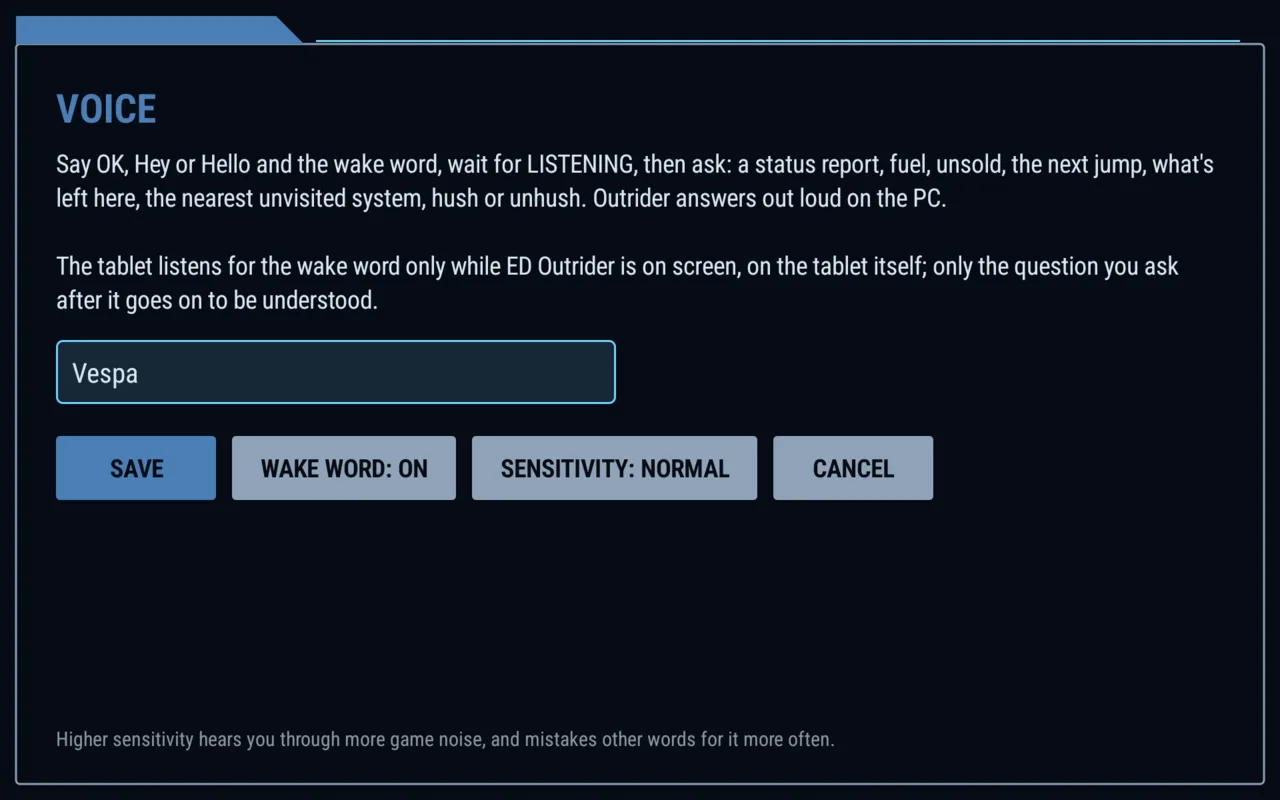
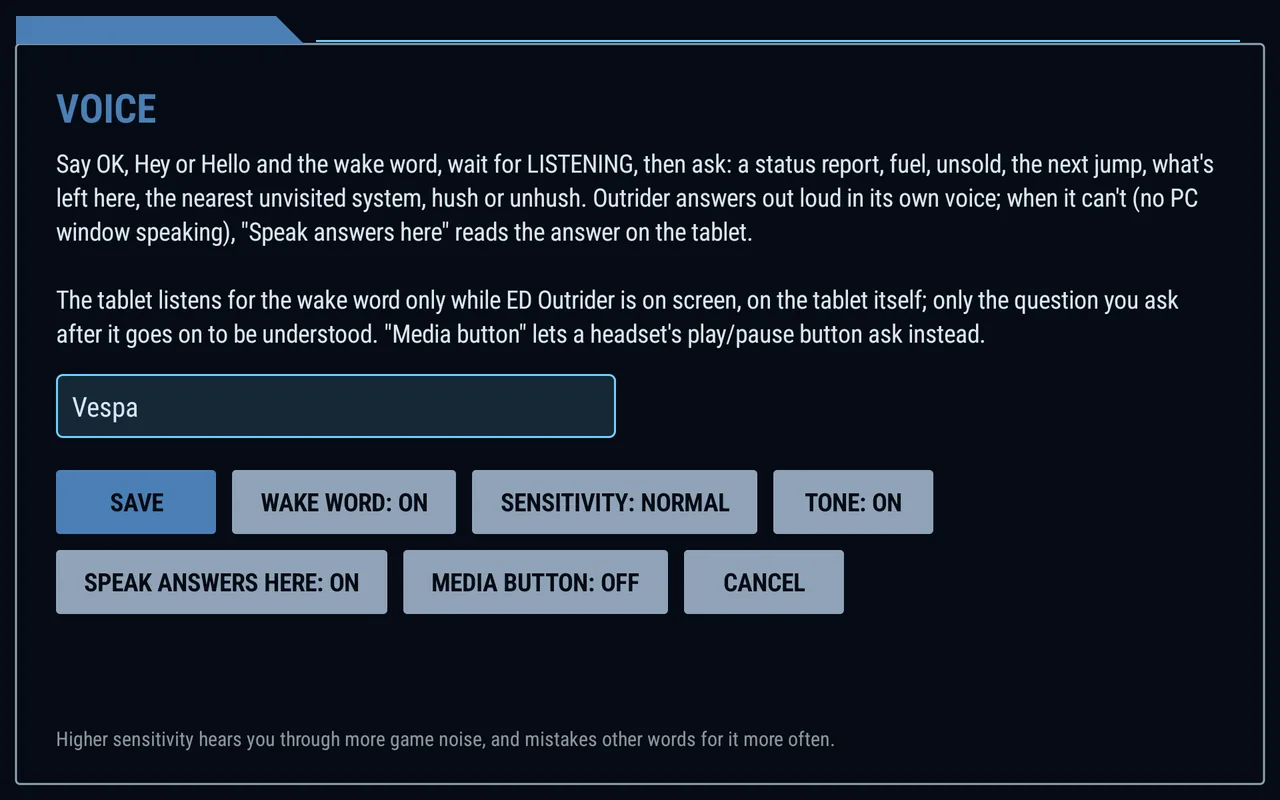
Review fixes, batch 6: docs and comments
From the 2026-10-04 review (F50, and the docs for batches 0-5):
- The manifest's microphone comment says what really happens: asked for when
  the page first shows, read continuously for the wake word while the app is
  on screen, nothing recorded or sent; the MainActivity voice section and the
  bridge's listen() comment no longer say "tap-to-ask"
- README: the tone, speaking answers on the tablet, the media button and the
  blocked-microphone path in Voice; Privacy covers the microphone, tablet
  text-to-speech, the media button, Android 8-9 storage, and requests to
  anywhere else being blocked; the fake Outrider's new flags; the contract's
  "spoken": false; a new Voice screenshot
- CLAUDE.md: Flow.kt, FlowRow.kt, per-Outrider cookies and themes, the build
  (dist, unsigned check, lint baseline, model manifest), the tests and the
  fake's flags, lint and the selftest as required checks, and what bit during
  the fixes (per-host cookies, Chromium's IPv6 and URL forms, fixed-length
  streaming, stroked drawables, run-as pipes)

Changed region(s): [[0.0312, 0.2812, 0.9375, 0.7812], [0.6562, 0.2188, 0.9375, 0.2812]]

diff --git a/app/src/main/java/io/github/weslocke/outrider/MainActivity.kt b/app/src/main/java/io/github/weslocke/outrider/MainActivity.kt
@@ -870,7 +870,7 @@ class MainActivity : ComponentActivity() {
 
     private fun toast(text: String) = Toast.makeText(this, text, Toast.LENGTH_LONG).show()
 
-    // ---- tap-to-ask --------------------------------------------------------------------------------------------
+    // ---- voice: the microphone, the wake word, Ask, answers -------------------------------------------------
 
     private fun micGranted() =
         ContextCompat.checkSelfPermission(this, Manifest.permission.RECORD_AUDIO) == PackageManager.PERMISSION_GRANTED

diff --git a/app/src/main/java/io/github/weslocke/outrider/Bridge.kt b/app/src/main/java/io/github/weslocke/outrider/Bridge.kt
@@ -37,7 +37,7 @@ object Bridge {
         data class Haptic(val ms: Int) : Message()
         object SignInRequired : Message()
         data class SetTheme(val name: String) : Message()
-        /** Tap-to-ask: listen for one spoken question and send it to /api/ask. */
+        /** The page's Ask button: listen for one spoken question and send it to /api/ask. */
         object Listen : Message()
     }
 

diff --git a/README.md b/README.md
@@ -42,7 +42,7 @@ the tablet sleeps, and listens for your voice.
 |---|---|
 | 🖥 **Cockpit display** | Outrider's tablet layout full screen, landscape, screen kept on: Now, Nearby, Here, Samples, Bookmarks, Search, Map, Highway, History, Log, Materials and My firsts. |
 | 🕹 **Ship controls** | A column of game buttons (landing gear, cargo scoop, lights, silent running, ...) that press your own key bindings in the game, lit from the game's own status. Changes with the vehicle: ship, SRV, fighter, on foot. *(Needs Outrider on the gaming PC, on Linux; an Outrider in server mode shows no game buttons.)* |
-| 🎙 **"Hey Vespa"** | Say *"Hey / OK / Hello Vespa"*, then ask: *status report*, *fuel*, *unsold*, *next jump*, *what's left here*, *nearest unvisited*, *hush*. Outrider answers out loud in its own voice. The wake word is yours to change. |
+| 🎙 **"Hey Vespa"** | Say *"Hey / OK / Hello Vespa"*, then ask: *status report*, *fuel*, *unsold*, *next jump*, *what's left here*, *nearest unvisited*, *hush*. Outrider answers out loud in its own voice (or the tablet reads it, when Outrider can't). The wake word is yours to change. |
 | 🎨 **Themes** | LCARS, Elite (cockpit HUD), Babylon 5 (Earthforce and Narn), Star Wars (Sith and Alliance) and a modern Dark mode, picked in the page's settings; the app's own screens follow. |
 | 🔒 **Signs in once** | When Outrider asks devices on the network for a password, the app signs in and stays signed in until it changes. |
 | 🔁 **Reconnects** | Says plainly when Outrider can't be reached, and picks up again by itself when it's back. |
@@ -97,33 +97,48 @@ isn't answering); each keeps its own sign-in. A long press on one forgets it.
 
 ## Voice
 
-Say **"Hey Vespa"**, **"OK Vespa"** or **"Hello Vespa"**, wait for **LISTENING**, then ask your question. Outrider
-answers out loud in its own voice, and the answer shows on the tablet too. A small **◉ VESPA** in the
+Say **"Hey Vespa"**, **"OK Vespa"** or **"Hello Vespa"**, wait for the soft tone and **LISTENING**, then ask your
+question. Outrider answers out loud in its own voice, and the answer shows on the tablet too; when Outrider can't speak
+(its voice is off, or it runs on a server), the tablet reads the answer out instead. A small **◉ VESPA** in the
 bottom-left corner shows that the tablet is listening for the wake word. You can also tap **Ask** (in the page's
 footer or the Back menu) instead of saying it.
 
 In **Back → Voice**:
 
 <p align="center">
-  <img src="docs/images/app-voice.webp" alt="The app's Voice settings: the wake word, on or off, its sensitivity" width="600">
+  <img src="docs/images/app-voice.webp" alt="The app's Voice settings: the wake word, on or off, its sensitivity, the tone, speaking answers on the tablet, the media button" width="600">
 </p>
 
 - **the wake word**: any word in plain letters, *Vespa* by default (the prefixes OK, Okay, Hey and Hello stay);
 - **on or off**;
-- **sensitivity**: *High* hears you through more game noise, and mistakes similar words for it more often.
+- **sensitivity**: *High* hears you through more game noise, and mistakes similar words for it more often;
+- **tone**: the soft two-note tone when it starts listening (on);
+- **speak answers here**: read answers on the tablet when Outrider didn't speak them (on);
+- **media button**: a headset's play/pause button asks, like the Ask button (off).
+
+If Android has stopped asking for the microphone (it was refused), the screen says so and **Open Android settings**
+takes you to the app's permissions.
 
 The wake word is spotted on the tablet by a small open model ([sherpa-onnx](https://github.com/k2-fsa/sherpa-onnx)),
 so with loud game audio it can miss: raise the sensitivity, or tap Ask.
 
 ## Privacy and security
 
-- The app talks **only to the Outrider address you give it**, over plain HTTP on your own network, and loads nothing else
-  (other links open in the browser).
-- The **wake word** is listened for on the tablet itself, only while the app is on screen. No audio is kept or sent
-  for it.
+- The app talks **only to the Outrider address you give it**, over plain HTTP on your own network, and loads nothing
+  else: requests the page makes anywhere else (images, scripts, fonts) are blocked, and other links open in the
+  browser.
+- The **microphone** is asked for when the page first shows, since the wake word is on by default. While the wake
+  word is on and the app is on screen, the microphone is listened to continuously, on the tablet itself, for the
+  wake word only. No audio is kept or sent for it.
 - After the wake word (or Ask), **your question** goes through Android's speech recognizer: on the tablet when Android
   has an offline speech pack for your language, otherwise through the recognizer's own online service (Google's, on
   most tablets). The text then goes to Outrider like any other request.
+- Answers read out **on the tablet** use Android's text-to-speech engine, which works on the tablet with the engine's
+  installed voices.
+- The **media button** option (off by default) lets a headset's play/pause button start a question while the app is
+  on screen; the app doesn't take the button over otherwise.
+- On Android 8 and 9, the **storage** permission is asked for on the first export, to save to Downloads; refused,
+  exports go to the app's own folder.
 - Outrider's **password** stops accidents (another device on the network pressing game keys), not a determined
   attacker on your network: it crosses the network unencrypted. The app keeps the session token Outrider gives it,
   never the password.
@@ -183,6 +198,10 @@ python3 tools/fake_outrider.py                  # port 8026, password "test"
 python3 tools/fake_outrider.py --password ""    # no password
 python3 tools/fake_outrider.py --api 2          # Outrider newer than the app: "update the app"
 python3 tools/fake_outrider.py --old            # no /api/version: "update Outrider"
+python3 tools/fake_outrider.py --server-mode    # Outrider on a server: no game buttons
+python3 tools/fake_outrider.py --unspoken       # answers Outrider couldn't speak: the tablet reads them
+python3 tools/fake_outrider.py --slow 5         # a slow /api/ask (also --ask-429, --redirect)
+python3 tools/fake_outrider.py --selftest       # check the fake itself
 ```
 
 Debug builds also take a question from adb, as if it had been heard, to test `/api/ask` without speaking:
@@ -204,7 +223,7 @@ ignore fields they don't know.
 | `GET /api/version` | `{"outrider", "api", "min_app", "password", "signed_in", "game_pc"}`, open without a session (`game_pc`: false for Outrider in server mode) |
 | `POST /api/auth/signin` | `{"password"}` → `{"ok", "token"}` and a session cookie |
 | `POST /api/auth/signout` | ends the session |
-| `POST /api/ask` | `{"text", "source": "vespa"}` → `{"answer", "spoken", "matched", "command"}` (Outrider speaks the answer) |
+| `POST /api/ask` | `{"text", "source": "vespa"}` → `{"answer", "spoken", "matched", "command"}` (Outrider speaks the answer; with `"spoken": false` the app can read it out) |
 | Errors | `{"error": "<words>", "code": "<code>"}`: `bad_password`, `rate_limited` (+ `Retry-After`), `signin_required`, `app_too_old` (426), ... |
 | Headers | the app sends `X-Outrider-App: <version>` and `Authorization: Bearer <token>` on its own calls |
 
@@ -218,7 +237,7 @@ browser. The bridge exists only on the configured Outrider's pages.
 | `haptic(ms)` | a short vibration, up to 100 ms (nothing on tablets without a motor) |
 | `signInRequired()` | the session is gone: the app signs in again and reloads the page |
 | `setTheme(name)` | `"lcars"`, `"elite"`, `"babylon5"`, `"narn"`, `"sith"`, `"alliance"` or `"dark"`, so the app's own screens match the page |
-| `listen()` | listen for one spoken question, send it to `POST /api/ask` and show the answer |
+| `listen()` | listen for one spoken question, send it to `POST /api/ask` and show the answer (reading it out if Outrider didn't) |
 </details>
 
 ## Credits

diff --git a/CLAUDE.md b/CLAUDE.md
@@ -10,35 +10,49 @@ page <-> app bridge; the design history is in the author's (unpublished) Outride
 
 `app/src/main/java/io/github/weslocke/outrider/`:
 
-- `MainActivity.kt`: the flow (connect → version check → sign-in / update / page), the WebView and its guards, the
-  Back menu, the Voice screen, and when the wake word runs (`voiceIdle`).
+- `MainActivity.kt`: carries out the flow (connect → version check → sign-in / update / page), the WebView and its
+  guards (`shouldInterceptRequest` answers 403 to anything not on the Outrider's origin), the Back menu, the Voice
+  screen, and when the wake word runs (`voiceIdle`). Work off the main thread goes through `background()`, answers
+  come back through `onMain()`, which drops them after `onDestroy`; `/api/ask` has its own executor.
+- `Flow.kt`: the pure decisions: what to show after `/api/version`, and what a page HTTP error means (with the
+  401-loop guard).
 - `Contract.kt`: contract versions, `/api/version`, `/api/ask` and error parsing, version compatibility.
 - `OutriderApi.kt`: the app's own HTTP calls (blocking; run off the main thread).
 - `ServerAddress.kt`: parsing the typed address, and `isSameOrigin`, the guard on everything loaded or called.
 - `Bridge.kt`: `window.OutriderApp` (a document-start script + an origin-restricted web message listener).
-- `Prefs.kt`: what the app keeps (address, a token per Outrider, saved Outriders, theme, wake-word settings); never
-  the password.
-- `Servers.kt`: the saved Outriders (most recent first, at most 4, game PC or server) and the per-Outrider tokens.
-- `Ui.kt`, `AppTheme.kt`: the app's own screens, coloured and framed by the page's theme (lcars / elite / babylon5 /
-  narn / sith / alliance / dark, the same palettes as Outrider's `static/themes/`).
-- `Voice.kt`: one spoken question through Android's speech recognizer, and its pure helpers (`Speech`).
-- `WakeWord.kt`: the wake word ("OK / Okay / Hey / Hello <word>") on sherpa-onnx's keyword spotter, and the pure
-  `WakePhrases` (phrase list, sensitivity, word checks).
+- `Prefs.kt`: what the app keeps (address, saved Outriders, and per Outrider its token, sign-in cookie lines and
+  theme; voice settings); never the password.
+- `Servers.kt`: the saved Outriders (most recent first, at most 4, game PC or server), the per-Outrider tokens and
+  cookies (JSON), and the 1.0.0 token migration.
+- `Ui.kt`, `FlowRow.kt`, `AppTheme.kt`: the app's own screens (button rows wrap), coloured and framed by the page's theme (lcars / elite / babylon5 /
+  narn / sith / alliance / dark, the same palettes as Outrider's `static/themes/`). `ContrastTest` holds every theme
+  to WCAG contrast.
+- `Voice.kt`: one spoken question through Android's speech recognizer (on-device first, online fallback), and its
+  pure helpers (`Speech`: error wording, the microphone permission's state, the answer line).
+- `WakeWord.kt`: the wake word ("OK / Okay / Hey / Hello <word>") on sherpa-onnx's keyword spotter, one audio thread
+  per run token (an older run never reports or keeps the microphone); the pure `AudioReads` (what a read result
+  means) and `WakePhrases` (phrase list, sensitivity, word checks).
 - `Bpe.kt`: splits the configured word into the model's pieces. The model's "bpe.model" is really a sentencepiece
   UNIGRAM model (Viterbi); tested against sentencepiece's own output in `src/test/resources/bpe_gold.json`.
 
 Elsewhere:
 
-- `app/build.gradle.kts`: the `fetchVoice` task downloads the sherpa-onnx AAR and the keyword-spotting model into
-  `app/voice/` (git-ignored, SHA-256 pinned) before every build; release signing from `~/.android/`.
-- `tools/fake_outrider.py`: a stand-in Outrider (contract, `/api/ask`, a test page) on port 8026.
+- `app/build.gradle.kts`: the version (the version code is derived from it); the `fetchVoice` task downloads the
+  sherpa-onnx AAR and the keyword-spotting model into `app/voice/` (git-ignored, SHA-256 pinned; the extracted model
+  is checked against `app/voice/assets/kws/.manifest`) before every build; release signing from `~/.android/` (a
+  release without it fails unless `-PallowUnsigned`); APKs copied to `app/build/dist/`. Lint blocks a release on
+  anything not in `app/lint-baseline.xml`.
+- `app/src/test/`: JVM unit tests (junit 4, the real org.json). `TestHttpServer` is a small socket server for
+  `OutriderApiTest` (`com.sun.net.httpserver` isn't on the Android unit-test classpath).
+- `tools/fake_outrider.py`: a stand-in Outrider (contract, `/api/ask`, a test page) on port 8026; `--server-mode`,
+  `--slow N`, `--unspoken`, `--ask-429`, `--redirect` for the awkward cases, `--selftest` to check itself.
 - `design/launcher-icon.svg`: the icon's source; `app/src/main/res/drawable/ic_launcher_*.xml` are hand-converted
   from it (keep them in step).
 - `docs/images/`: README images.
 
 ## Rules
 
-- `./gradlew testDebugUnitTest assembleDebug` must pass. Pure logic lives outside Android classes so it can be
+- `./gradlew testDebugUnitTest assembleDebug lint` and `python3 tools/fake_outrider.py --selftest` must pass. Pure logic lives outside Android classes so it can be
   unit-tested; every fix gets a test where it can.
 - The native-facing contract and the bridge are versioned: change them only together with Outrider (talk to the
   Outrider side first). Ignore unknown fields; never require new ones.
@@ -58,3 +72,12 @@ Elsewhere:
 - The keyword spotter's phrases compete in one search: `maxActivePaths = 16` (not the default 4) or "OK Vespa" loses
   to "Hey"/"Hello". The "-mobile" KWS model crashes in sherpa-onnx 1.13.8; use the standard one.
 - `adb shell am start ... --es debug_ask` needs inner quotes for spaces (adb runs it through the tablet's shell).
+- Cookies are per host, not per port: two Outriders on one PC overwrite each other's session cookie, so the app keeps
+  each one's cookie lines and puts them back before loading its page.
+- Chromium hands back IPv6 hosts compressed and lower-cased (`fd00::20`), and leaves `|`, `^`, `{` unescaped in URLs;
+  compare canonical hosts, and don't parse page URLs with `java.net.URI`.
+- `HttpURLConnection` with fixed-length streaming lost the body of a 401 answer to a POST; the app doesn't use it.
+- A stroked outline in a `Drawable` washed the whole window out on the tablet; draw borders as filled shapes.
+- Never pipe `adb shell run-as <pkg> cat` into another `run-as` write of the same file: it emptied the prefs. Back
+  the file up first, edit a local copy, then `cat local | adb shell run-as <pkg> sh -c "'cat > shared_prefs/outrider.xml'"`,
+  and put the author's own settings back after testing.
